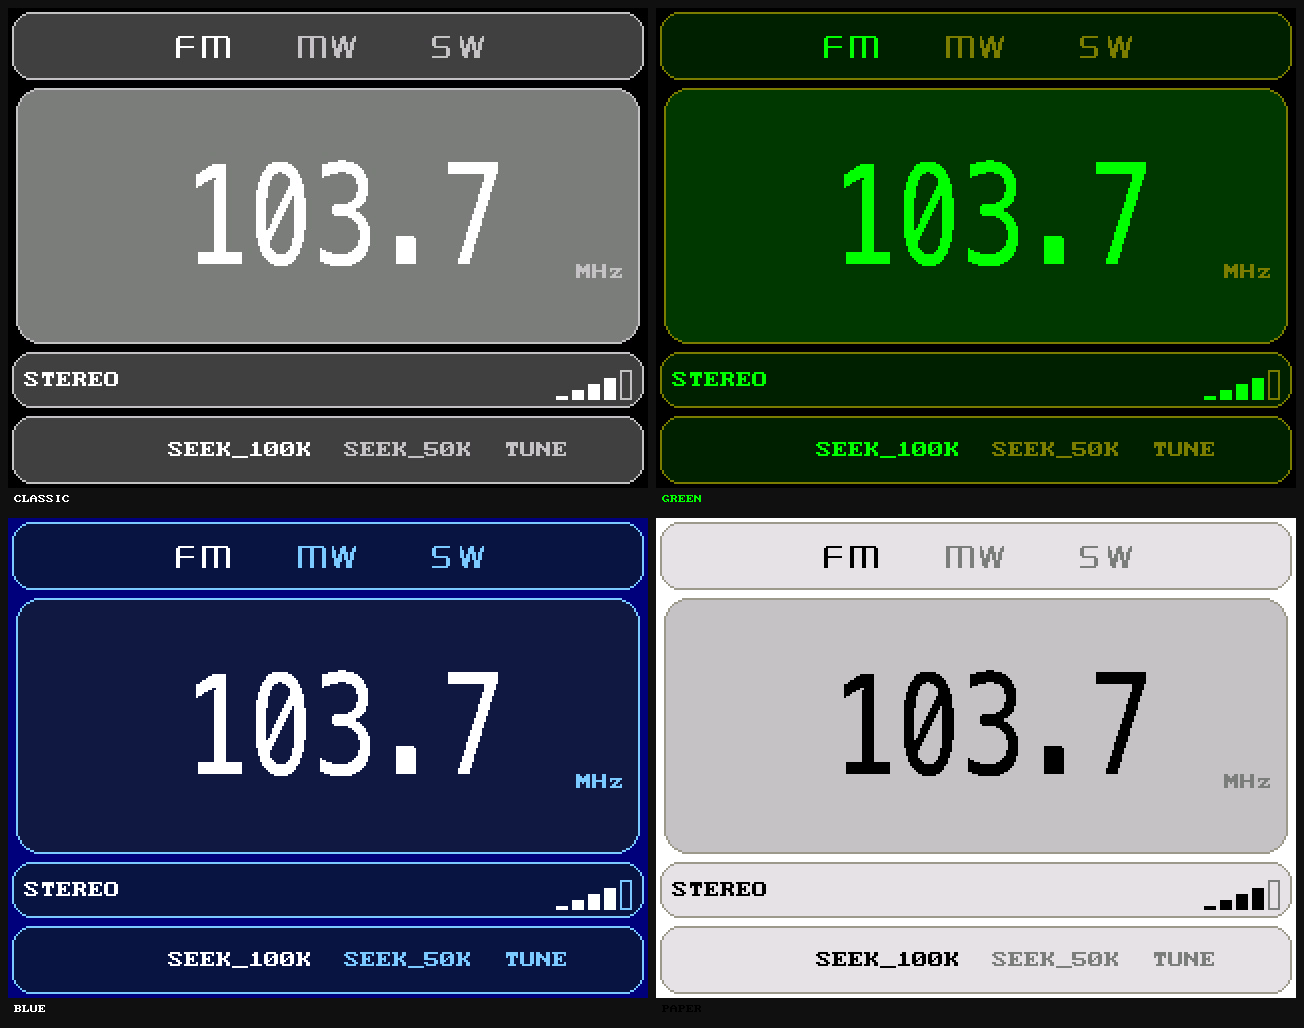
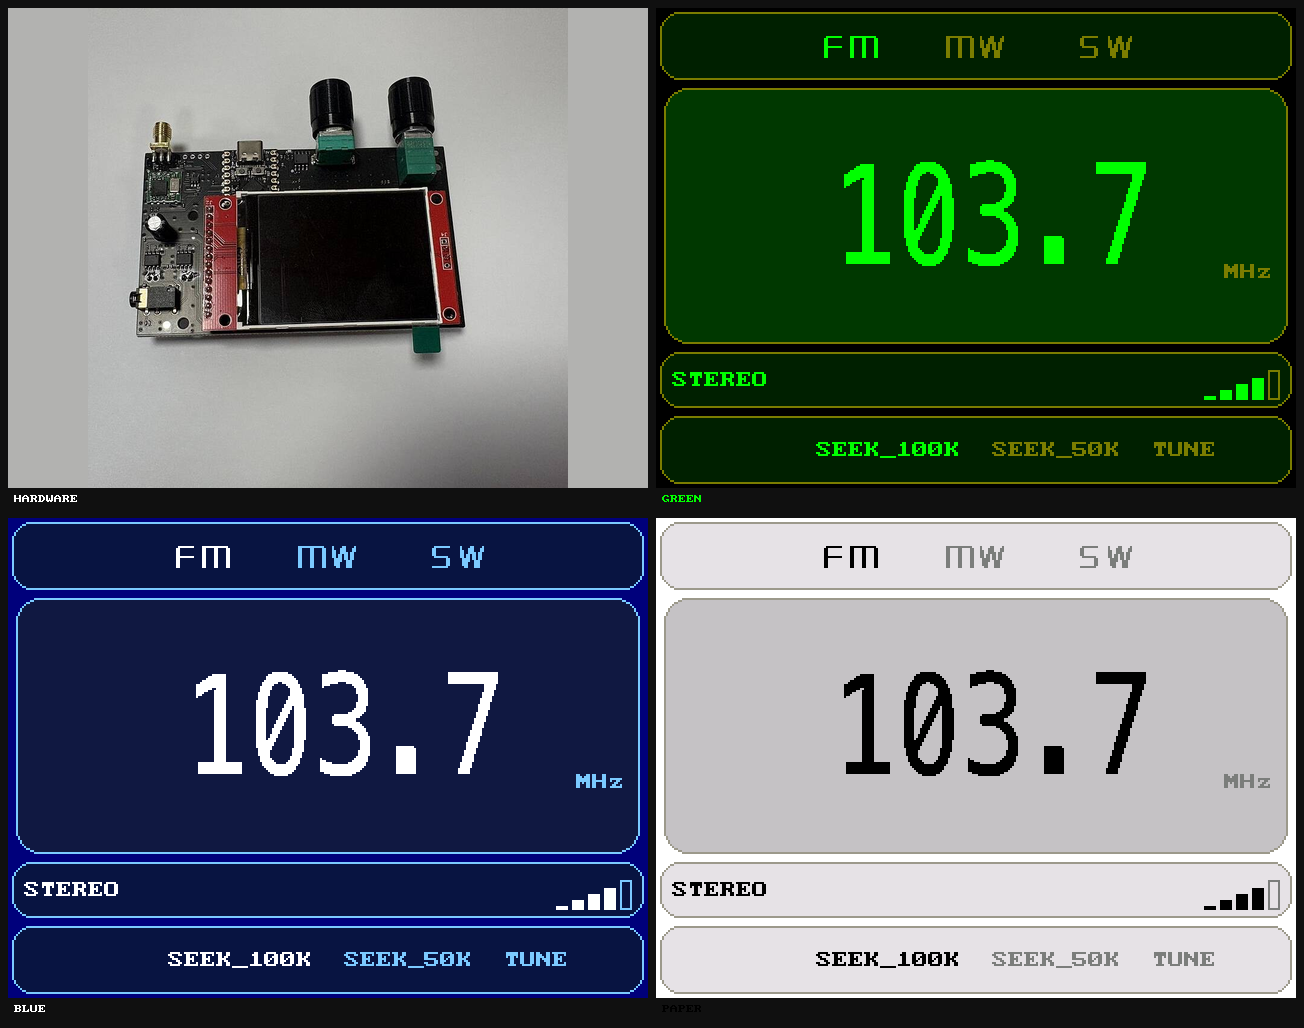
docs: 首页2x2左上换回收音机实物图, 补经典黑白单图与图注

Changed region(s): [[0.0, 0.0, 0.5215, 0.4981]]

diff --git a/README.md b/README.md
@@ -1,6 +1,6 @@
-![TEF6686_ESP32C3 四种屏幕配色](docs/radio_ui_themes_2x2.png)
+![TEF6686_ESP32C3 实物与三种屏幕配色](docs/radio_ui_themes_2x2.png)
 
-*上图按 FM 103.7 MHz 状态按代码 1:1 渲染，依次为：经典黑白、绿色荧光、深蓝冰蓝、白纸反色；第五种「琥珀复古」见 [docs/radio_ui_FM_amber.png](docs/radio_ui_FM_amber.png)。*
+*左上为拼多多收音机实物（[docs/radio_PDD.jpg](docs/radio_PDD.jpg)），其余三块为 FM 103.7 MHz 状态按代码 1:1 渲染的配色：绿色荧光、深蓝冰蓝、白纸反色；另外两种「经典黑白」「琥珀复古」分别见 [docs/radio_ui_classic.png](docs/radio_ui_classic.png) 与 [docs/radio_ui_FM_amber.png](docs/radio_ui_FM_amber.png)。*
 
 # TEF6686_ESP32C3 数字收音机
 
